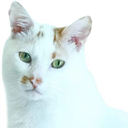
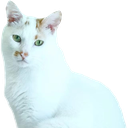
Refine cat cursor cutout

diff --git a/test/cursor.test.js b/test/cursor.test.js
@@ -14,6 +14,13 @@ test("desktop custom cursor uses the cat artwork", async () => {
   assert.equal(html.includes("metal-cursor"), false);
 });
 
+test("cat cursor artwork is cut out and tilts strongly when active", async () => {
+  const png = await readFile(catCursorUrl);
+  assert.equal(png.toString("ascii", 1, 4), "PNG");
+  assert.equal(png.includes(Buffer.from("tRNS", "ascii")) || png.includes(Buffer.from("rgba", "ascii")) || png[25] === 6, true);
+  assert.match(html, /\.cat-cursor\.active\s*\{[^}]*rotate\(45deg\)/s);
+});
+
 test("lanyard does not restore the native cursor on desktop", () => {
   assert.equal(lanyardSource.includes("document.body.style.cursor"), false);
 });

diff --git a/index.html b/index.html
@@ -740,7 +740,7 @@
       }
 
       .cat-cursor.active {
-        transform: translate3d(-18px, -18px, 0) scale(1.08) rotate(-4deg);
+        transform: translate3d(-18px, -18px, 0) scale(1.08) rotate(45deg);
       }
 
       @media (prefers-reduced-motion: reduce) {